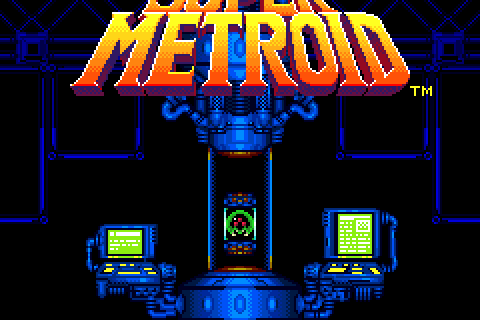
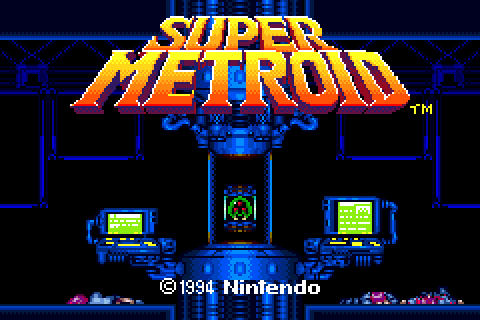
README: screenshots of the title, the intro and the bosses
The old ones were from before the rooms were compared with the SNES, and
showed its bugs: doors twice over, the HUD without its tanks. These are
from now: the title, Ceres exploding, Zebes, Samus leaving her ship,
Kraid, Botwoon, Ridley and Mother Brain, the bosses' each checked against
tools/snesref's picture of the same frame.

Claude-Session: https://claude.ai/code/session_01JsmjgrKfr2uSukGNBabu17

diff --git a/README.md b/README.md
@@ -2,14 +2,14 @@
 
 <p align="center">
   <img src="docs/images/title.png" width="240" alt="The title screen">
-  <img src="docs/images/ceres.png" width="240" alt="Escaping Ceres station">
-  <img src="docs/images/crateria.png" width="240" alt="Samus at her ship in the rain">
-  <img src="docs/images/brinstar.png" width="240" alt="Brinstar">
+  <img src="docs/images/ceres-explodes.png" width="240" alt="Ceres station explodes as Samus escapes">
+  <img src="docs/images/zebes.png" width="240" alt="Planet Zebes">
+  <img src="docs/images/landing.png" width="240" alt="Samus leaves her ship in the rain">
   <br>
-  <img src="docs/images/norfair.png" width="240" alt="Norfair">
-  <img src="docs/images/wrecked-ship.png" width="240" alt="The Wrecked Ship">
-  <img src="docs/images/maridia.png" width="240" alt="Maridia">
-  <img src="docs/images/tourian.png" width="240" alt="Tourian">
+  <img src="docs/images/kraid.png" width="240" alt="Kraid">
+  <img src="docs/images/botwoon.png" width="240" alt="Botwoon">
+  <img src="docs/images/ridley.png" width="240" alt="Ridley">
+  <img src="docs/images/mother-brain.png" width="240" alt="Mother Brain">
 </p>
 
 Super Metroid, running natively on the Game Boy Advance. The game itself is
